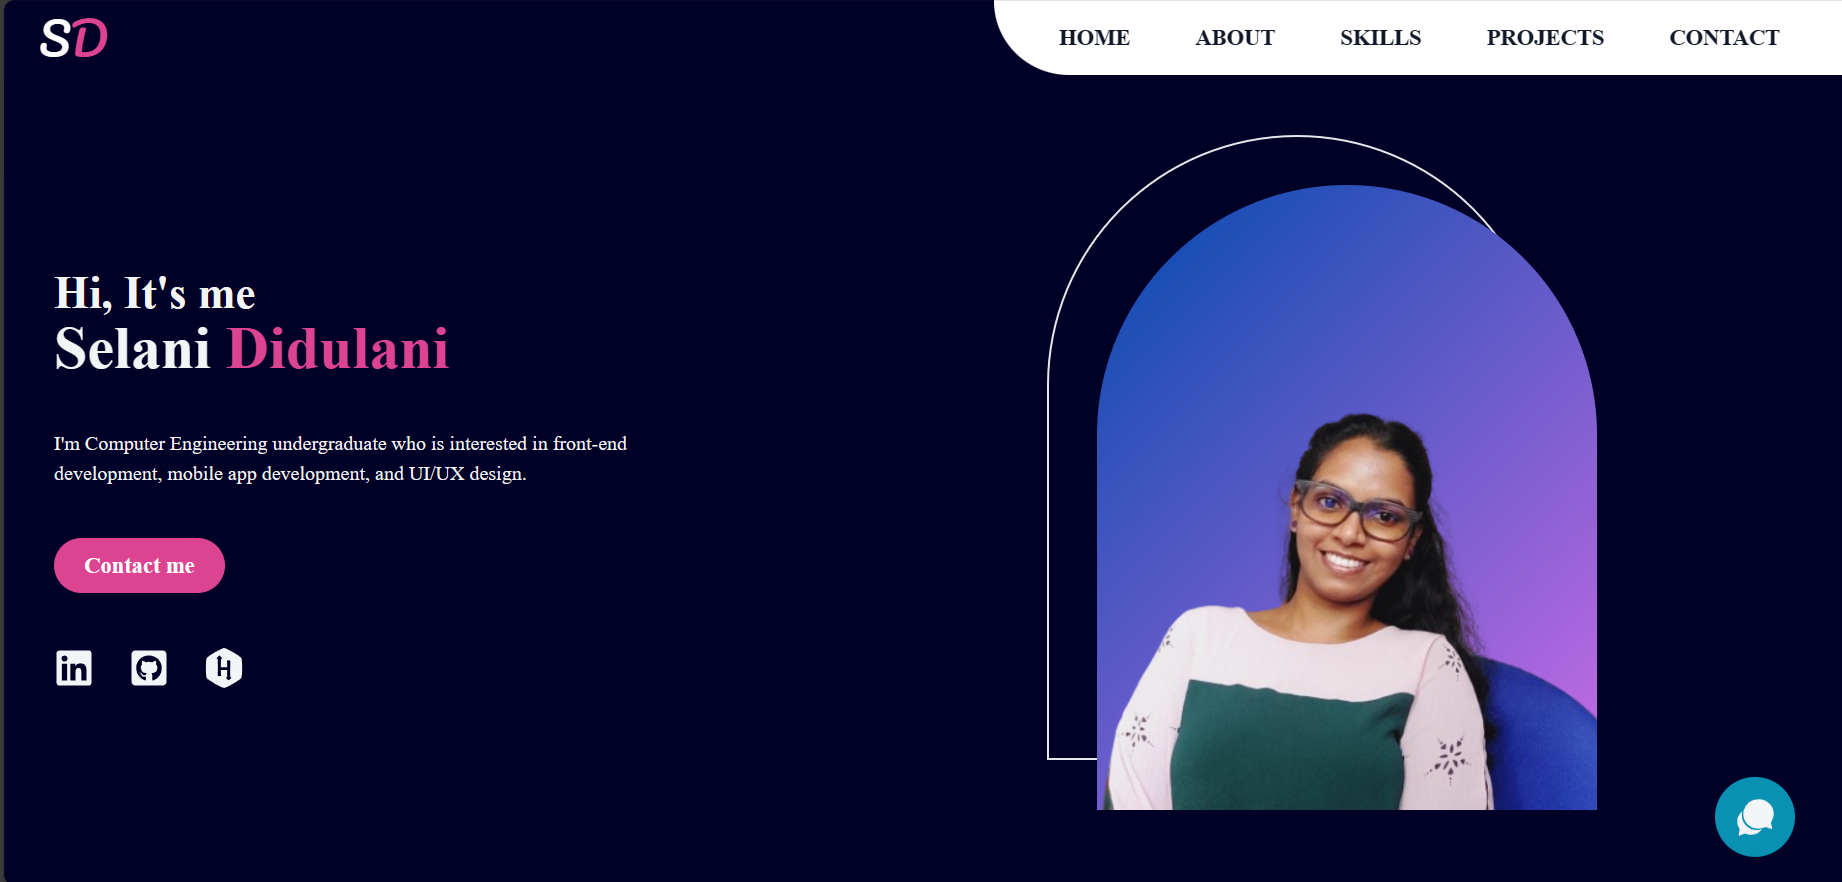
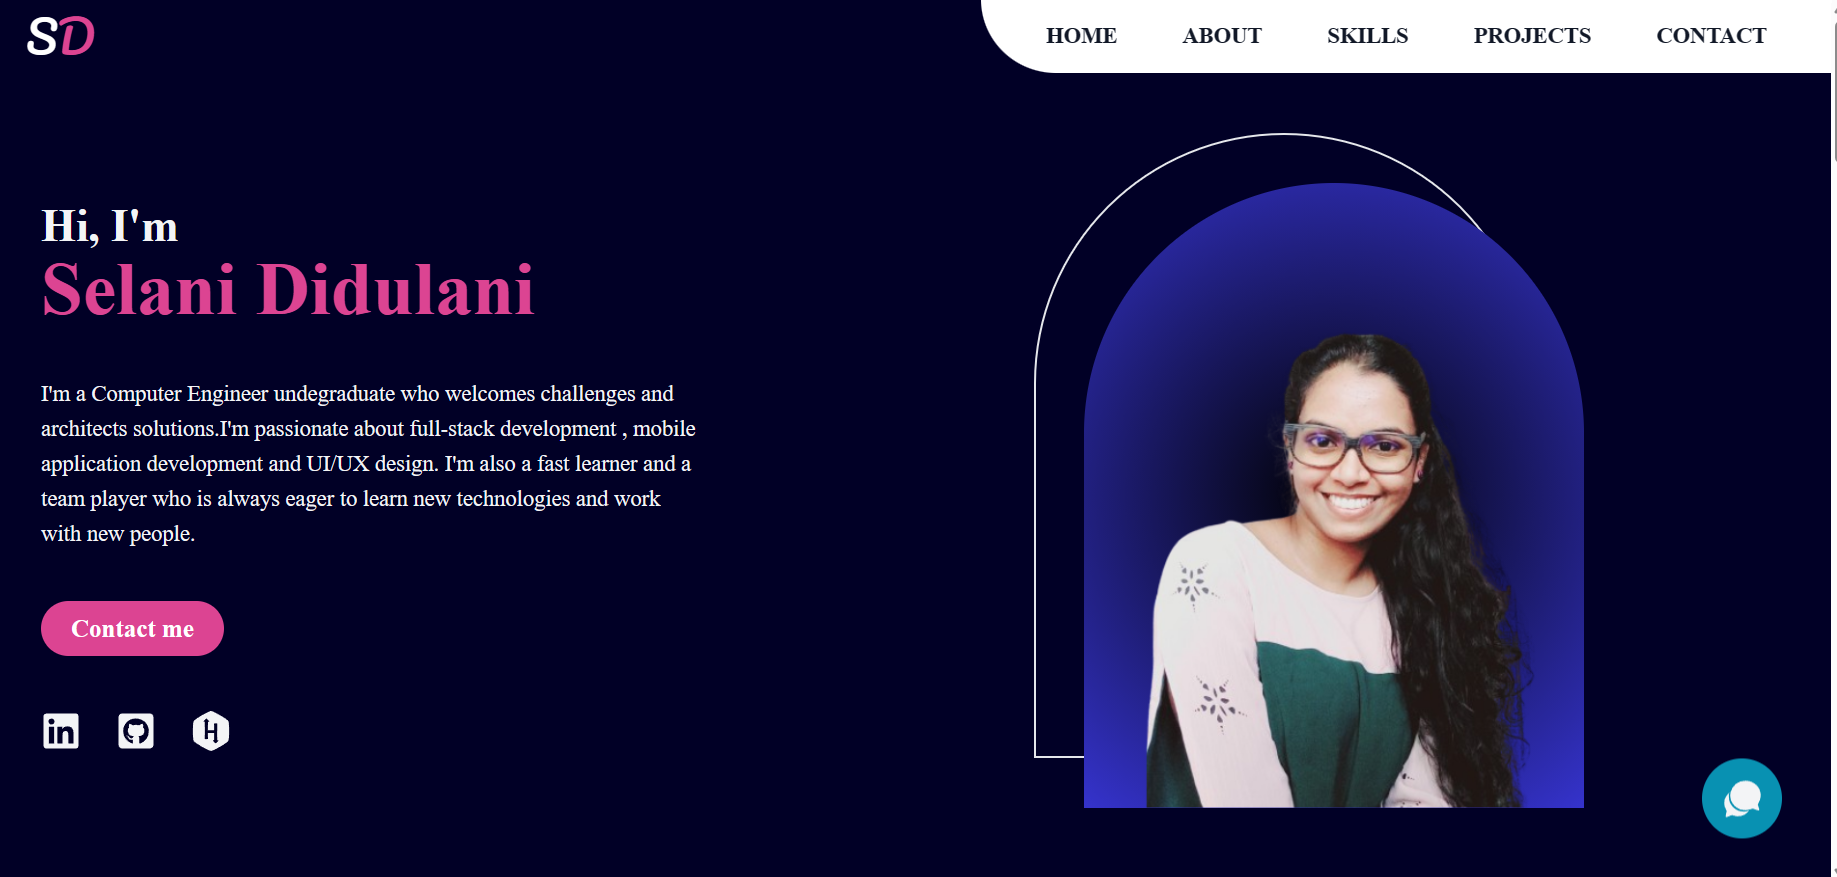
About section update

diff --git a/src/Components/About.jsx b/src/Components/About.jsx
@@ -1,6 +1,6 @@
 import React from "react";
 import { motion } from "framer-motion";
-import about from "../assets/person_3.jpg";
+import about from "../assets/About.jpg";
 
 import UOR from "../assets/Educations/UOR.png";
 import IHRA from "../assets/Educations/IHRA.png";
@@ -9,8 +9,6 @@ import DVP from "../assets/Educations/DVP.png";
 // import { Carousel } from 'flowbite-react';
 
 const About = () => {
-
-
   return (
     <section id="about" className="py-10 text-white">
       <div className="text-center mt-8">
@@ -18,13 +16,15 @@ const About = () => {
           About <span className="text-cyan-600">Me</span>
         </h3>
 
-        <p className="text-gray-200 my-3 md:text-xl text-base tracking-wide font-bold mb-10">My introduction</p>
+        <p className="text-gray-200 my-3 md:text-xl text-base tracking-wide font-bold mb-10">
+          My Introduction
+        </p>
         <div className=" flex md:flex-row flex-col-reverse items-center md:gap-6 gap-12 px-10 max-w-6xl mx-auto">
-          {/* <div className="flex-1  flex justify-center items-center">
+          <div className="flex-1  flex justify-center items-center">
             <div className="lg:w-96 h-full relative sm:w-10/11 w-11/12 max-w-sm">
               <img src={about} alt="" className="w-full rounded-lg" />
             </div>
-          </div> */}
+          </div>
 
           <div className="p-2">
             <div className="text-gray-300 my-3">
@@ -39,27 +39,42 @@ const About = () => {
                 }}
               >
                 <p className="text-justify leading-7 w-11/12">
-                  Lorem ipsum dolor, sit amet consectetur adipisicing elit.
-                  Animi, tempore. Blanditiis a magnam eligendi, aspernatur totam
-                  atque rerum laudantium explicabo sequi eveniet dolorem amet
-                  quaerat tempore, eos aliquam deleniti sit?
+                  Hello, I'm Selani a third year Computer Engineering
+                  undergraduate at Faculty of Engineering, University of Ruhuna.
+                  In my university life,I have been able to gain a lot of
+                  knowledge and experience in the field of computer engineering.
+                  I have worked on diverse project related web development,
+                  mobile application development, desktop application
+                  developmnet also machine learning base project. Also have
+                  experience on UI/UX design, Agile methodology and Scrum.
+                  <br />
+                  <br />
+                  Beyond academics, I've actively participated in competitions
+                  and served as a committee member, honing my collaborative and
+                  leadership skills. This introduction encapsulates my passion
+                  for innovation, continuous learning, and my commitment to
+                  pushing the boundaries of what can be achieved in the realm of
+                  computer engineering.
                 </p>
-
-                <a href="./src/assets/Selani_Didulani_CV.pdf" download>
-                  <button className="btn-primary mt-10 ">Download CV</button>
-                </a>
+                
+                  <a href="./src/assets/Selani_Didulani_CV.pdf" download>
+                    <button className="btn-primary mt-10 ">Download CV</button>
+                  </a>
+                
               </motion.div>
             </div>
           </div>
         </div>
 
-        <p className="text-gray-200 md:mt-3 mt-10  md:text-xl text-base tracking-wide font-bold" >My Educations</p>
+        <p className="text-gray-200 md:mt-3 pt-20  md:text-xl text-base tracking-wide font-bold">
+          My Educations
+        </p>
         <div className="flex flex-col justify-center sm:py-12">
           <div className="w-full py-3 px-2 sm:max-w-xl sm:mx-auto sm:px-0">
             <div className="relative text-gray-700 antialiased text-sm font-semibold">
               {/* Middle line */}
               <motion.div>
-              <div className="hidden absolute w-1 sm:block bg-white h-full left-1/2 transform -translate-x-1/2"></div>
+                <div className="hidden absolute w-1 sm:block bg-white h-full left-1/2 transform -translate-x-1/2"></div>
               </motion.div>
               {/* left cards */}
 
@@ -72,7 +87,6 @@ const About = () => {
                         whileInView="visible"
                         viewport={{ once: true, amount: 0.5 }}
                         transition={{ duration: 0.8 }}
-                        
                         variants={{
                           hidden: { opacity: 0, x: 50 },
                           visible: { opacity: 1, x: 0 },
@@ -231,8 +245,6 @@ const About = () => {
             </div>
           </div>
         </div>
-
-
       </div>
     </section>
   );

diff --git a/src/Components/Hero.jsx b/src/Components/Hero.jsx
@@ -5,7 +5,6 @@ import Profile from "../assets/Profile_1.png";
 
 import SociaMediaIcons from "../Items/SocialMediaIcons";
 
-
 const Hero = ({ setSelectedPage }) => {
   const isAboveMediumScreens = useMediaQuery("(min-width:1060px)");
 
@@ -52,22 +51,26 @@ const Hero = ({ setSelectedPage }) => {
           }}
         >
           <h1 className="md:text-4xl text-2xl z-10 text-center md:text-left font-semibold">
-            Hi, It's me <br />
+            Hi, I'm <br />
           </h1>
-          <h1 className="md:text-5xl text-4xl font-bold text-center sm:text-start">
-            Selani {""}
+          <h1 className="md:text-6xl text-4xl font-bold text-center sm:text-start">
             <span className="xs:relative text-red  xs:font-semibold z-20">
-              Didulani
+              Selani Didulani
             </span>
           </h1>
 
-          <p className="mt-10 mb-7 md:text-base text-sm text-center md:text-start">
-            I'm Computer Engineering undergraduate who is interested in
-            front-end development, mobile app development, and UI/UX design.
+          <p className="mt-10 mb-7 md:text-lg text-sm text-center md:text-start">
+            I'm a Computer Engineer undegraduate who welcomes challenges and
+            architects solutions.I'm passionate about full-stack development ,
+            mobile application development and UI/UX design. I'm also a fast
+            learner and a team player who is always eager to learn new
+            technologies and work with new people.
           </p>
 
           <a href="#contact">
-            <button className=" text-lg font-semibold text-white md:mx-0 mx-auto rounded-full py-2 px-6 flex items-center gap-2 transition-all duration-300 bg-red hover:-translate-y-2 mt-10 ">Contact me</button>
+            <button className=" text-xl font-semibold text-white md:mx-0 mx-auto rounded-full py-2 px-6 flex items-center gap-2 transition-all duration-300 bg-red hover:-translate-y-2 mt-10 ">
+              Contact me
+            </button>
           </a>
         </motion.div>
 

diff --git a/src/Components/Contact.jsx b/src/Components/Contact.jsx
@@ -45,15 +45,15 @@ const Contact = () => {
         <h3 className="md:text-4xl text-3xl">
           Contact <span className=" text-cyan-600">Me</span>
         </h3>
-        <p className="text-gray-400 mt-3 taxt-lg">Get in touch</p>
+        <p className="text-gray-200 my-3 md:text-xl text-base tracking-wide font-bold mb-10">Get in touch</p>
       </div>
       
 
       <div className="mt-16 flex md:flex-row flex-col gap-6 md:p-6 max-w-5xl bg-gray-800 p-6 rounded-lg mx-auto">
         <form className="flex flex-col flex-1 gap-5" ref={form} onSubmit={sendEmail}>
-          <input type="text" placeholder="Your name" name="user_name"></input>
-          <input type="Email" placeholder="Your email Address" name="user_email"></input>
-          <textarea placeholder="Your Message" rows={10} name="message"></textarea>
+          <input type="text" placeholder="Your name" id="name" required></input>
+          <input type="email" placeholder="Your email Address" id="email" required></input>
+          <textarea type="text" placeholder="Your Message" rows={10} id="message" required></textarea>
           <button className="btn-primary w-fit" type="submit" value="Send">Send Message</button>
         </form>
         <div className="flex flex-col gap-7">
@@ -69,6 +69,13 @@ const Contact = () => {
           ))}
         </div>
       </div>
+      <script src="https://smtpjs.com/v3/smtp.js"></script>
+      <script>
+       function SendEmail() {
+        
+        
+       }
+      </script>
     </section>
   );
 };
